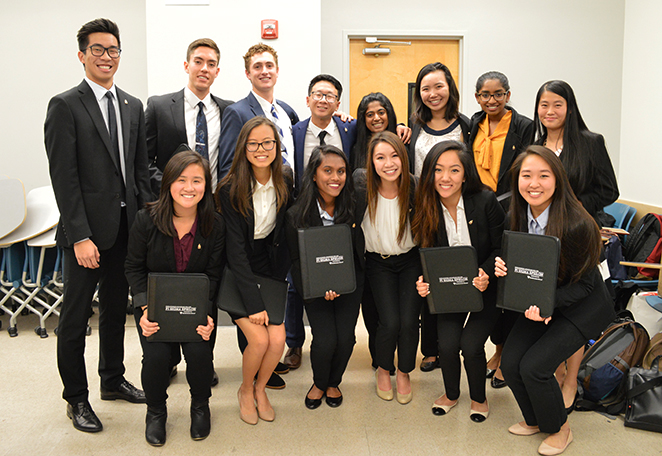
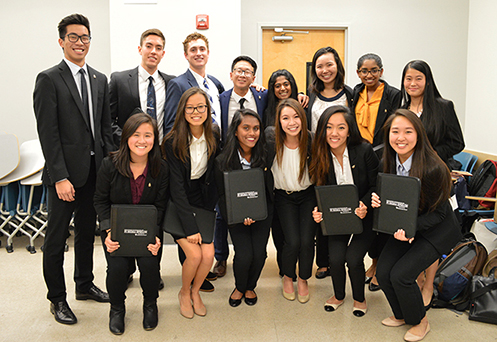
modified image sizes to improve mobile viewing

diff --git a/index.html b/index.html
@@ -99,7 +99,7 @@
 	<div id="description" class="row">
 		<div class="col-sm-1"></div>
 		<div class="col-sm-5">
-			<a href="https://berkeleypse.github.io/about"><img class="center-block" src="images/index/pse_folder.jpg" height="342" width="497"/></a>
+			<a href="https://berkeleypse.github.io/about"><img class="center-block img-responsive" src="images/index/pse_folder.jpg" height="100%" width="100%"/></a>
 			<h2 class="text-center text-uppercase">About</h2>
 			<p class="text-left">Pi Sigma Epsilon strives to provide its brothers with invaluable opportunities for professional development. We host workshops, career panels, and networking events in addition to social events and corporate projects throughout the semester. Our dynamic brotherhood is small, diverse, and tight-knit - the relationships you build are strong and meaningful.</p>
 			<br> <br>
@@ -108,7 +108,7 @@
 			<p class="text-left">As a new organization, we thrive in an exciting, fast-paced environment in which the opportunities for personal and professional growth are limitless.</p>
 		</div>
 		<div class="col-sm-5">
-			<a href="https://berkeleypse.github.io/recruitment"><img src="images/index/iota_class.jpg" height="342" width="497" class="center-block"/></a>
+			<a href="https://berkeleypse.github.io/recruitment"><img class="center-block img-responsive" src="images/index/iota_class.jpg" height="100%" width="100%"/></a>
 			<h2 class="text-center text-uppercase">Recruitment</h2>
 			<p class="text-left"> Spring 2017 Recruitment is coming up!</p>
 			<br>
